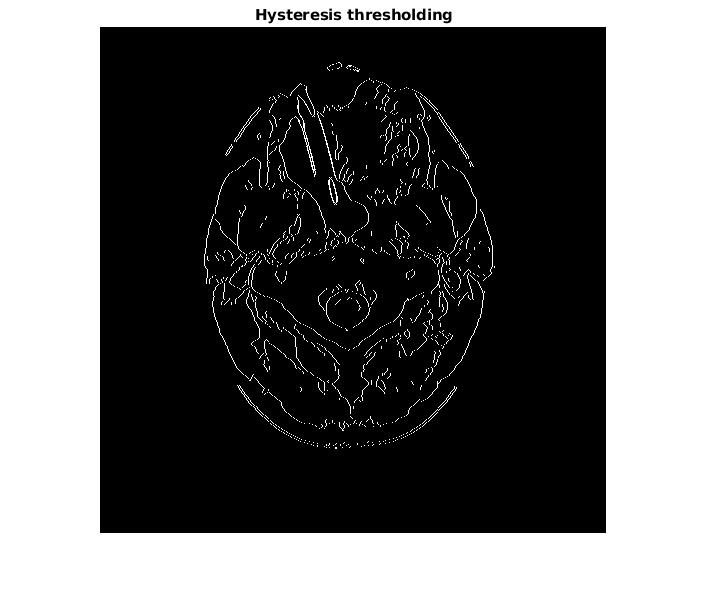
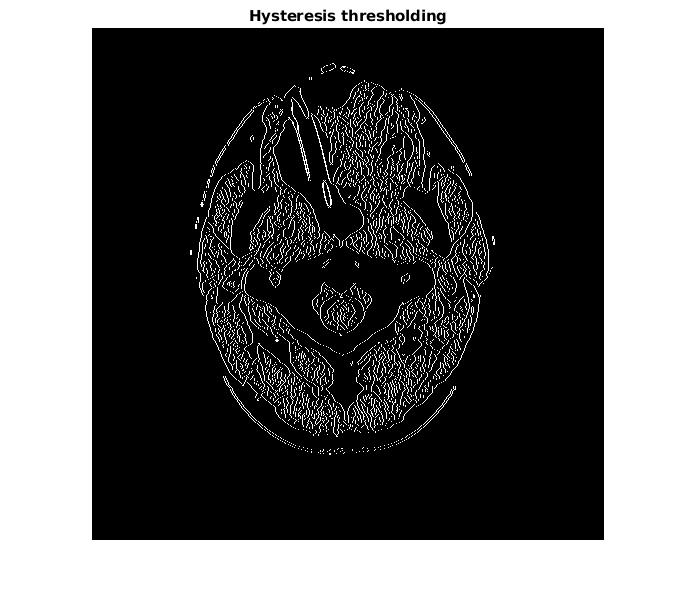
img

diff --git a/doMagnitudeAngle.m b/doMagnitudeAngle.m
@@ -5,12 +5,12 @@
     slice = imread('0001.png');
 
     sigma=min(size(slice))*0.005;
-    fslice = imgaussfilt(im2double(slice), sigma); %sigma is a value od standard deviation
-    figure; imshow(fslice, [min(fslice(:)),max(fslice(:))]); title('Gaussian smoothing');
+    %fslice = imgaussfilt(im2double(slice), sigma); %sigma is a value od standard deviation
+    %figure; imshow(fslice, [min(fslice(:)),max(fslice(:))]); title('Gaussian smoothing');
     
     %%%%%%%%%%%%IZBOLJSAVA%%%%%%%%%%%%%%%
-   % fslice= medfilt2(slice);
-   % figure; imshow(fslice, [min(fslice(:)),max(fslice(:))]); title('Median smoothing');
+    fslice= medfilt2(slice);
+    figure; imshow(fslice, [min(fslice(:)),max(fslice(:))]); title('Median smoothing');
     %%%%%%%%%%%%%%%%%%%%%%%%%%%%%%%%%%%%%
 
     % Prewitt mask/cross
@@ -96,15 +96,14 @@
         end
     end
 
-    
-    %%%%%%%%%%%%%%%%%%%%%%%%%%%%%%%%%%%%%%%%%%%%%%%%%IZBOLJSAVA%%%%%%%%%%%%%%%%%%%%%%%%%%%%%%%%%%%%%%%%%%%%%%%%%%%%%%%%%
     figure; imshow(T); title('Hysteresis thresholding');
 
     final = im2uint8(T);
-    imwrite(final, strcat('0001_TG.png'));
+    imwrite(final, strcat('0001_TM.png'));
     %Show final edge detection result
     figure, imshow(final); title('final');
-
+    
+    %%%%%%%%%%%%%%%%%%%%%%%%%%%%%%%%%%%%%%%%%%%%%%%%%IZBOLJSAVA%%%%%%%%%%%%%%%%%%%%%%%%%%%%%%%%%%%%%%%%%%%%%%%%%%%%%%%%%
     TH1 = graythresh(fslice)
     TL1 = TH1/2
 
@@ -127,7 +126,7 @@
     figure; imshow(T1); title('Hysteresis thresholding T1');
 
     final = im2uint8(T1);
-    imwrite(final, strcat('0001_T1G.png'));
+    imwrite(final, strcat('0001_T1M.png'));
     %Show final edge detection result
     figure, imshow(final); title('final1');
     %%%%%%%%%%%%%%%%%%%%%%%%%%%%%%%%%%%%%%%%%%%%%%%%%%%%%%%%%%%%%%%%%%%%%%%%%%%%%%%%%%%%%%%%%%%%%%%%%%%%%%%%%%%%%%%%%%
